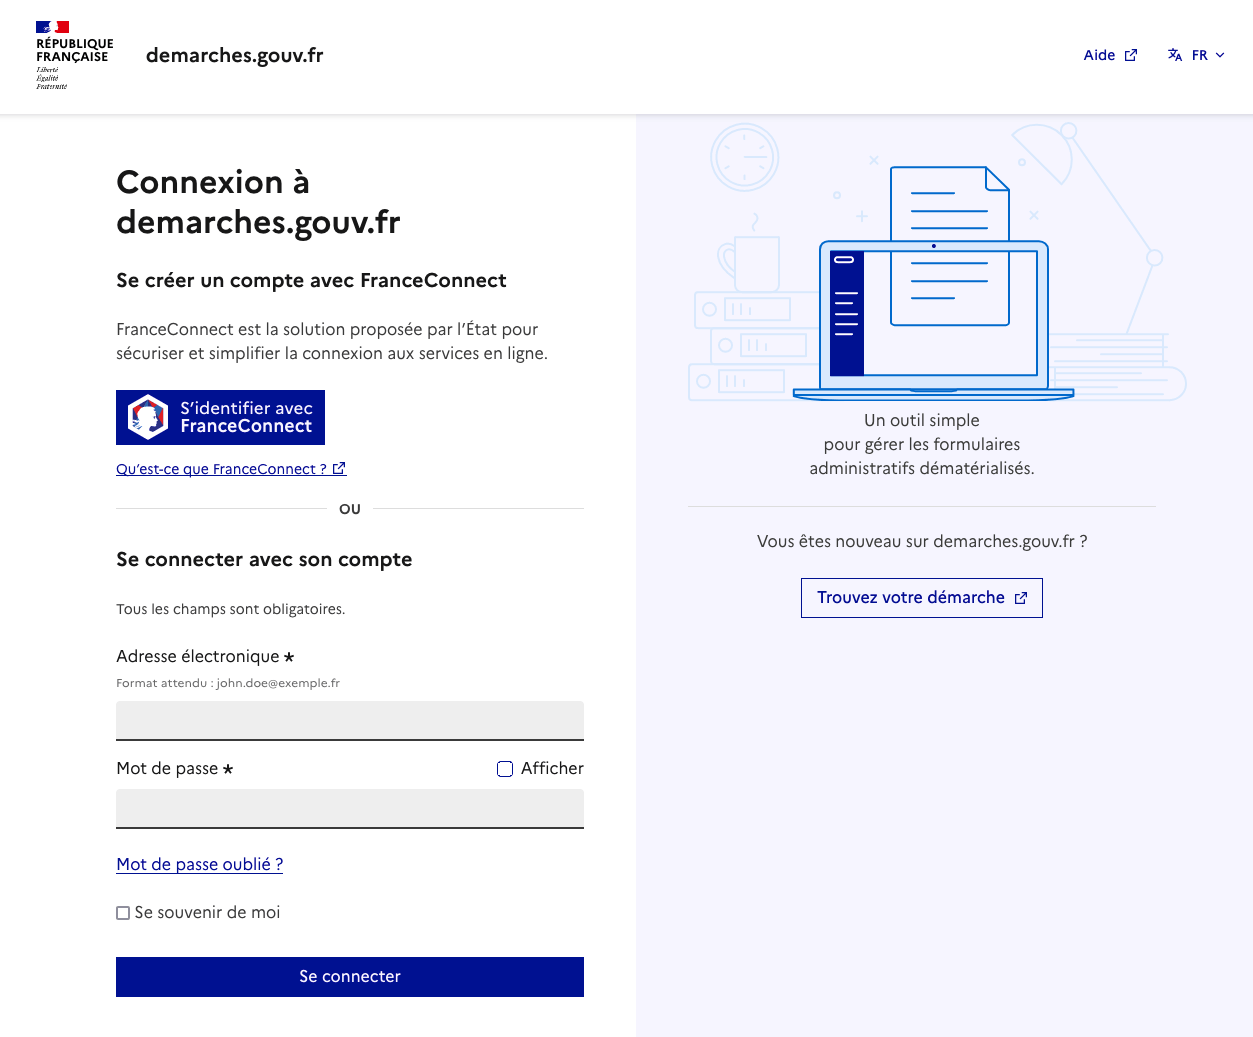
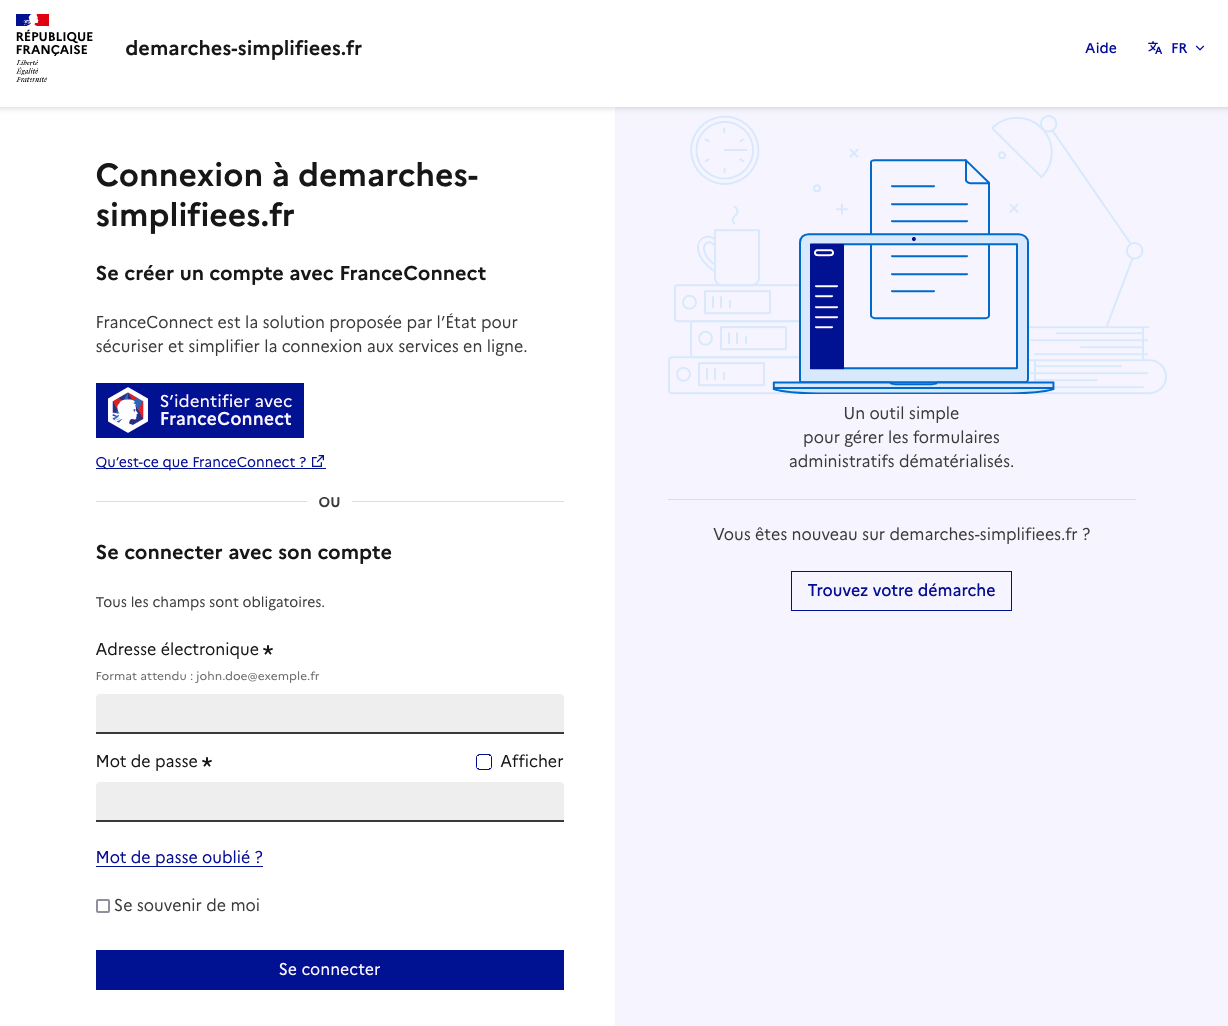
chore(faq): update screenshots mentionning demarches.gouv.fr

diff --git a/doc/faqs/usager/je-veux-changer-mon-adresse-email.fr.md b/doc/faqs/usager/je-veux-changer-mon-adresse-email.fr.md
@@ -27,8 +27,7 @@ Pour changer l’adresse email associée à votre compte, suivez les étapes sui
 3. Dans l’encadré _« Coordonnées »_, renseignez la nouvelle adresse email que vous souhaitez utiliser. Puis cliquez sur _« Changer mon adresse »_. **Attention** : Cette adresse ne doit pas être déjà utilisée par un autre compte sur %{application_name}.
 ![Section Coordonées avec formulaire de modification d’email](faq/usager-edit-email.png)
 
-4. Ouvrez la boîte email de votre nouvelle adresse, et cliquez sur le lien de confirmation que nous vous avons envoyé.<br>
-  ![Capture d’écran de l’email de confirmation de changement d’adresse email](faq/usager-confirm-update-email.png)
+4. Ouvrez la boîte email de votre nouvelle adresse, et cliquez sur le lien de confirmation que nous vous avons envoyé.
 
 ## Si l’adresse est déjà utilisée par un autre compte
 
